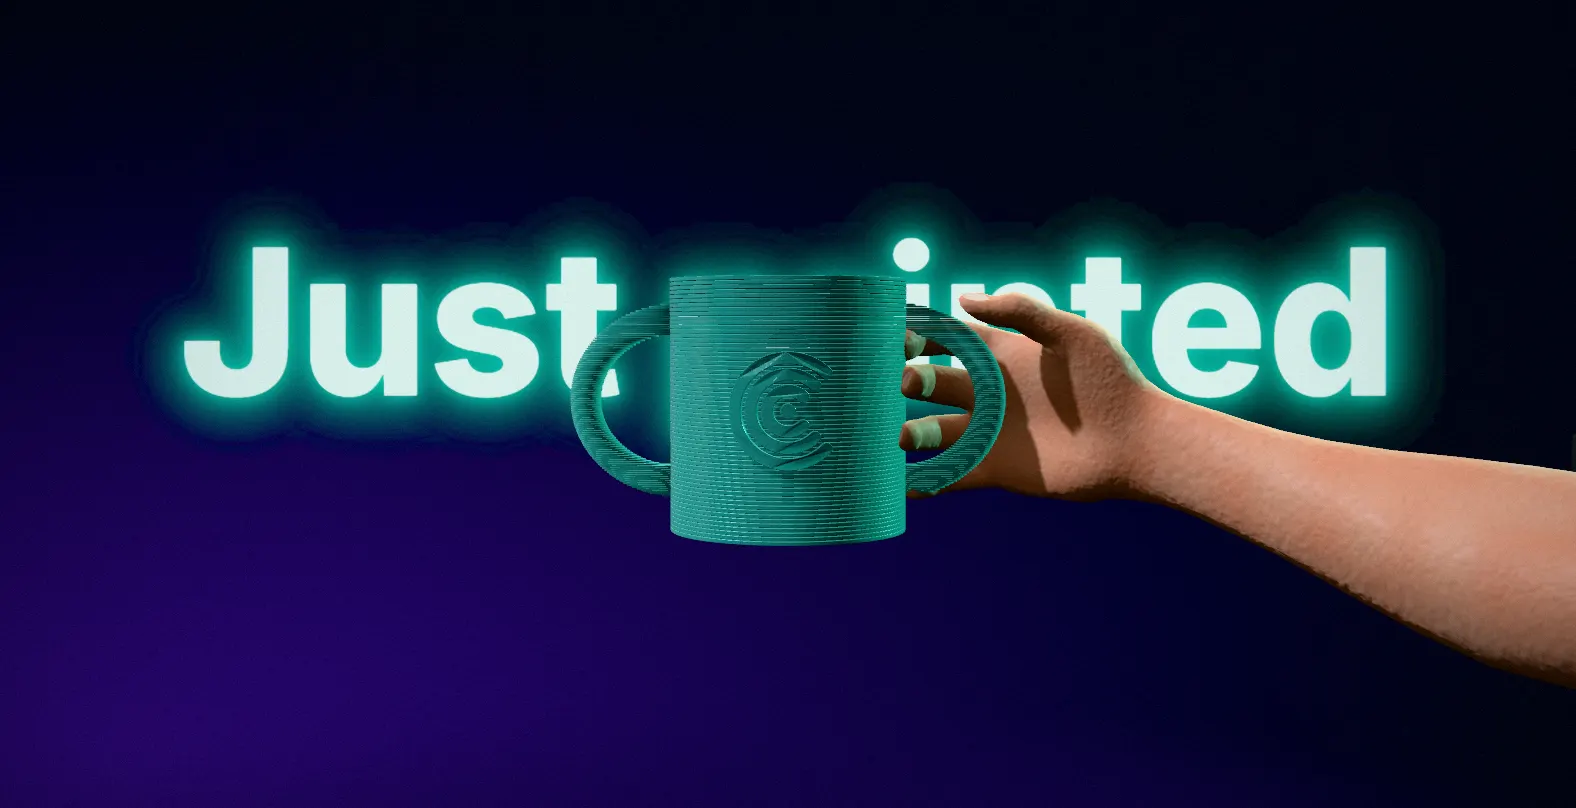
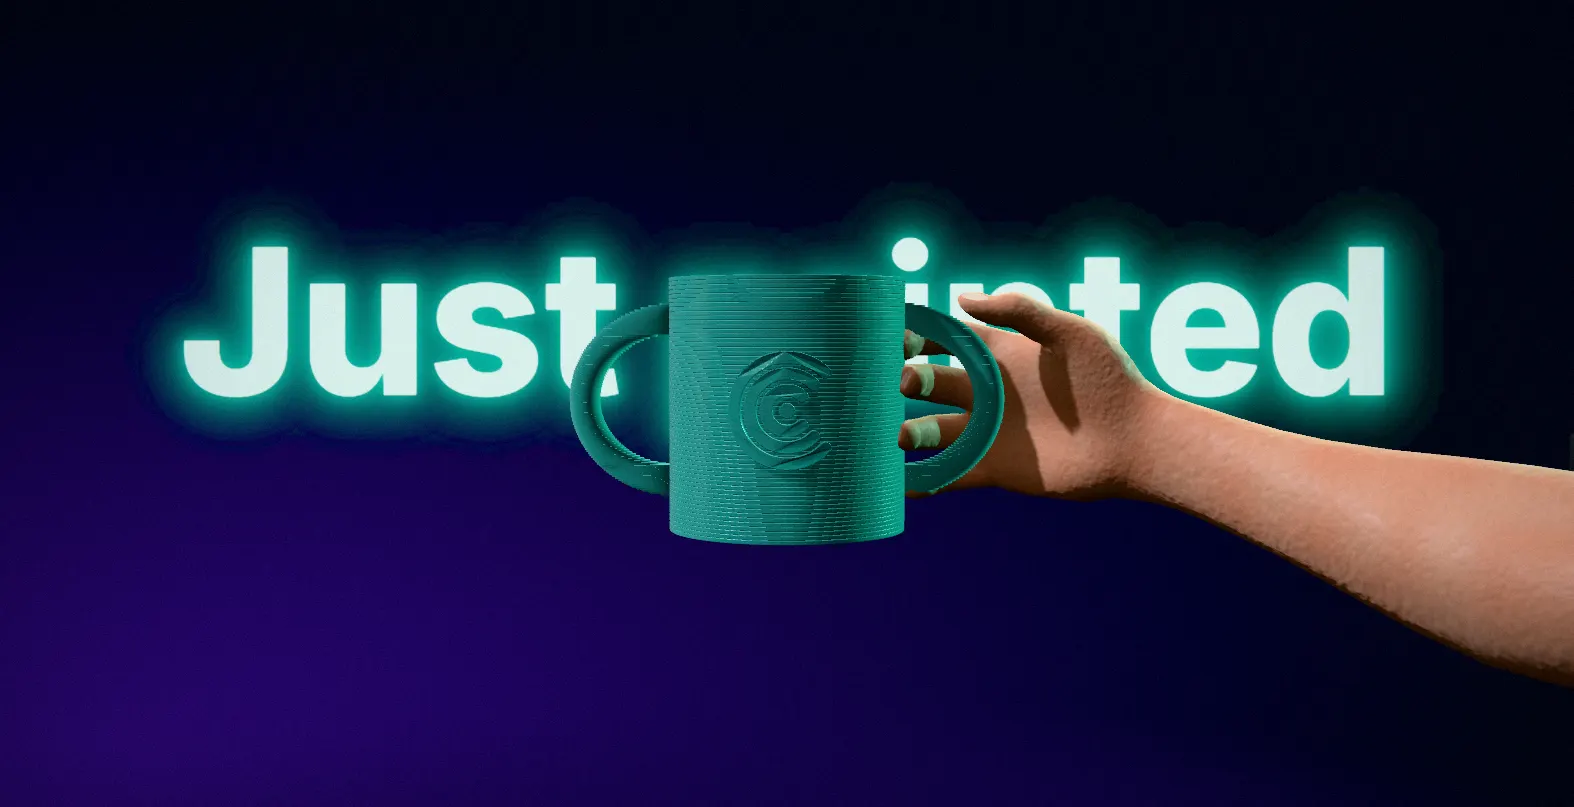
Keep phones responsive by deferring the 3D set-up, fix contrast and keyboard stops, count every 3D chunk

Changed region(s): [[0.3736, 0.3408, 0.6537, 0.6815], [0.3736, 0.4027, 0.4047, 0.4647]]

diff --git a/src/scene/runScene.ts b/src/scene/runScene.ts
@@ -269,12 +269,15 @@ export async function startScene(canvas: HTMLCanvasElement, opts: SceneOptions):
   // Loads alongside the rest of the set-up.
   const handLoading = opts.handUrl ? loadHand(opts.handUrl).catch(() => null) : Promise.resolve(null);
   let hand: Hand | null = null;
+  await yieldToMain();
   const steam = createSteam(opts.theme);
   // The closing: the project's other nine tools, sketched beside the mug.
   const lineup = createLineup(opts.theme);
   stage.add(lineup.object);
   // The opening desk under the drawing: a cutting mat, a pencil and a ruler.
+  await yieldToMain();
   const desk = createDesk(PRINTER_Y, () => handle?.invalidate());
+  await yieldToMain();
   stage.add(desk.object);
   const giantType = await createGiantType(opts.giantType, opts.theme);
   opts.onProgress?.(0.65);
@@ -283,6 +286,7 @@ export async function startScene(canvas: HTMLCanvasElement, opts: SceneOptions):
   scene.add(mugGlow.object);
   let glowAmount = 0;
   // The open model package the mug goes into at the end of "design and print".
+  await yieldToMain();
   const box = createPackageBox(opts.packageLabel ?? "");
   scene.add(box.object);
   scene.add(giantType.object);

diff --git a/src/components/HomeStory.tsx b/src/components/HomeStory.tsx
@@ -454,12 +454,19 @@ export function HomeStory({ lang, t }: { lang: Locale; t: Dictionary["home"] }) 
       );
     };
 
-    if (live && fixed === null) {
-      // The loading screen covers the page while the scene is set up, so the
-      // set-up starts at once; the page cannot scroll until it lifts.
+    // On a capable computer the loading screen covers the page while the
+    // scene is set up, so the set-up starts at once and the opening plays.
+    // On phones and modest devices the page shows at once instead, and the
+    // scene's heavy set-up waits for the visitor's first scroll or touch, so
+    // the page stays responsive while it loads.
+    const capable = window.innerWidth >= 900 && (navigator.hardwareConcurrency || 4) > 4;
+    if (live && fixed === null && capable) {
       document.documentElement.dataset.loading = "1";
       setLoad(0.1);
       void load();
+    } else if (live && fixed === null) {
+      skipLoader();
+      INTENT.forEach((type) => window.addEventListener(type, load, { passive: true, once: true }));
     } else {
       if (live) void load();
       skipLoader();

diff --git a/src/app/globals.css b/src/app/globals.css
@@ -781,7 +781,8 @@ main:focus {
   justify-content: flex-start;
   padding-block: 12svh;
   max-width: 34rem;
-  opacity: calc(0.3 + 0.7 * min(var(--reveal, 1), 1));
+  /* Never fainter than half, so a waiting title still reads (contrast). */
+  opacity: calc(0.5 + 0.5 * min(var(--reveal, 1), 1));
 }
 
 .story__beat--intro {
@@ -2918,6 +2919,10 @@ main:focus {
     margin-top: auto;
     margin-bottom: 9svh;
     padding: 14px 16px;
+    /* A frosted blur is costly on phones; a warm tint reads the same here. */
+    background: rgb(70 44 24 / 0.55);
+    -webkit-backdrop-filter: none;
+    backdrop-filter: none;
   }
 
   .story:not(.story--stills) .story__hero-note {
@@ -2933,4 +2938,10 @@ main:focus {
     padding: 10px 16px;
     font-size: 0.92rem;
   }
+}
+
+/* The chapter tabs stay hidden on the opening screen, but show as soon as
+   one of them has keyboard focus. */
+.story__chapters:focus-within {
+  opacity: 1;
 }

diff --git a/src/components/ui/animated-nav.tsx b/src/components/ui/animated-nav.tsx
@@ -113,8 +113,8 @@ export function AnimatedNav({ lang, items, t }: { lang: Locale; items: Item[]; t
             initial={false}
             animate={isExpanded ? "expanded" : "collapsed"}
             variants={containerVariants}
-            whileHover={!isExpanded ? { scale: 1.1 } : {}}
-            whileTap={!isExpanded ? { scale: 0.95 } : {}}
+            whileHover={!isExpanded ? { scale: 1.1 } : undefined}
+            whileTap={!isExpanded ? { scale: 0.95 } : undefined}
             className="relative flex h-12 items-center overflow-hidden rounded-full border border-border bg-background/80 shadow-lg backdrop-blur-sm"
           >
             {/* While folded the contents are hidden from keyboard and screen readers too. */}

diff --git a/CHANGELOG.md b/CHANGELOG.md
@@ -5,6 +5,25 @@ Fikirler Derneği) under WP5, Activity 5.1 (Dissemination of Project Results
 and Stakeholder Outreach). Every change is also recorded in the commit history
 of this repository: https://github.com/laroca00/3dcare/commits/main
 
+## 2026-10-27
+
+### Faster on phones, and easier to use with a keyboard
+- On phones and modest devices the home page shows at once, without the
+  loading screen, and the 3D scene sets itself up after the visitor's
+  first scroll or touch, in smaller steps. Measured with Lighthouse on a
+  simulated mid-range phone: performance 52 → 84–87, total blocking time
+  about 5.8 s → 0.25–0.35 s, no layout shift. Capable computers keep the
+  loading screen and the opening.
+- The 3D model loader now comes in its own file, only when the hand and
+  the desk's scanned objects are needed. The 3D budget check now counts
+  every chunk three.js is split over (199 KB of 200 KB).
+- The opening card on phones uses a plain warm tint instead of a costly
+  blur.
+- Story titles waiting for their scene are no fainter than half, so they
+  keep a readable contrast.
+- Keyboard: the menu bar itself is no longer a stop of its own, and the
+  chapter tabs show as soon as one of them has focus.
+
 ## 2026-10-24
 
 ### Fixes on the mug and on phones
